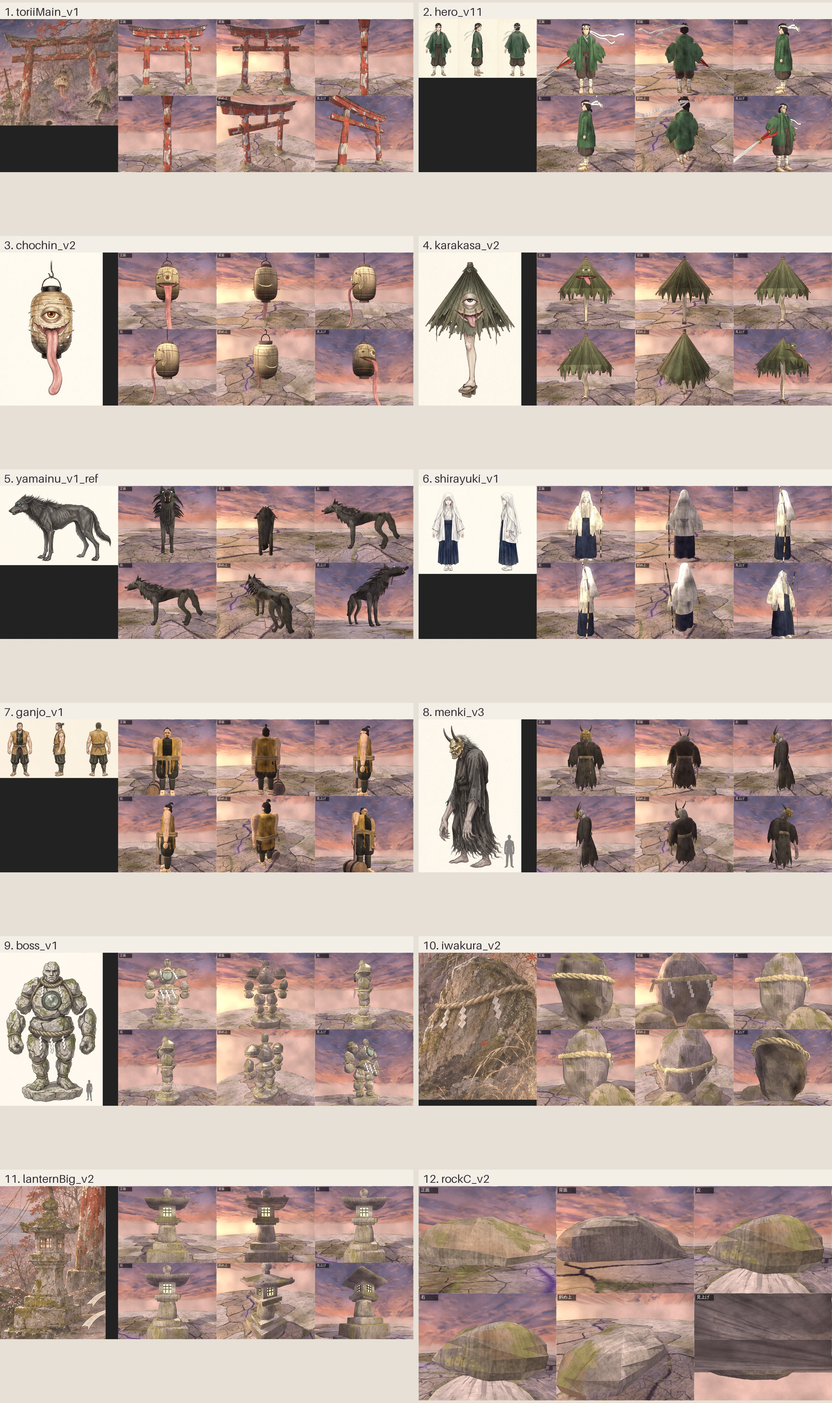
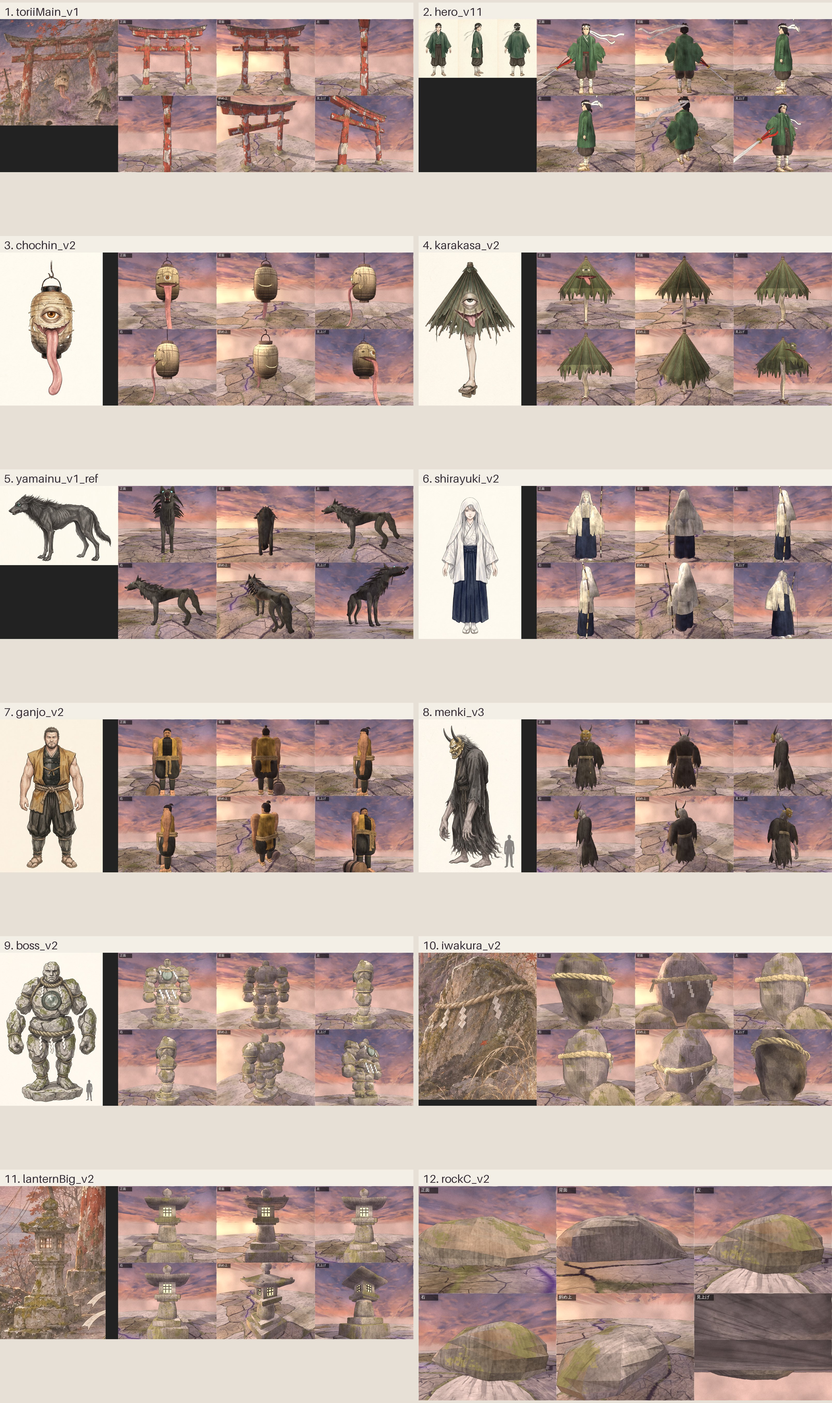
V5: 白雪2巡目（前髪を細い毛束に、被衣の縫い目と色、長い袂）。判定待ち一覧を更新
Claude-Session: https://claude.ai/code/session_0145zJV6a9DV3Wo584tYnUFi

diff --git a/src/data/lookdev/models.js b/src/data/lookdev/models.js
@@ -176,10 +176,10 @@ export const models = {
         st: [[0, 0.6, -0.01, 0.27, 0.205], [0, 0.85, -0.005, 0.25, 0.185], [0, 1.05, 0, 0.235, 0.165], [0, 1.25, 0, 0.225, 0.15], [0, 1.35, 0, 0.215, 0.14], [0, 1.41, 0, 0.17, 0.115], [0, 1.445, 0, 0.09, 0.08]] },
       // 大きな袖（肩から垂れ、袂は膝の上まで）と手
       { s: 'loft', seg: 18, n: 13, side: [0, 0, 1], col: 'kosode', col2: 'kosodeLo', gradUv: true, ao: 0.6, jitter: 0.006, jfreq: 7,
-        st: [[0.190, 1.36, 0, 0.08, 0.05], [0.255, 1.2, 0, 0.09, 0.08], [0.3, 1.02, 0.0, 0.08, 0.13], [0.325, 0.86, 0.0, 0.06, 0.16], [0.335, 0.74, 0.0, 0.045, 0.16]] },
+        st: [[0.190, 1.36, 0, 0.08, 0.05], [0.255, 1.2, 0, 0.09, 0.08], [0.3, 1.02, 0.0, 0.085, 0.14], [0.325, 0.82, 0.0, 0.07, 0.17], [0.335, 0.62, 0.0, 0.05, 0.17]] },
       { s: 'loft', seg: 8, n: 8, col: 'skinPale', st: [[0.33, 0.8, 0.03, 0.018, 0.022], [0.34, 0.73, 0.04, 0.02, 0.028], [0.345, 0.68, 0.045, 0.018, 0.03], [0.343, 0.62, 0.05, 0.008, 0.02]] },
       { s: 'loft', seg: 18, n: 13, side: [0, 0, 1], col: 'kosode', col2: 'kosodeLo', gradUv: true, ao: 0.6, jitter: 0.006, jfreq: 7,
-        st: [[-0.190, 1.36, 0, 0.08, 0.05], [-0.255, 1.2, 0, 0.09, 0.08], [-0.3, 1.02, 0.0, 0.08, 0.13], [-0.325, 0.86, 0.0, 0.06, 0.16], [-0.335, 0.74, 0.0, 0.045, 0.16]] },
+        st: [[-0.190, 1.36, 0, 0.08, 0.05], [-0.255, 1.2, 0, 0.09, 0.08], [-0.3, 1.02, 0.0, 0.085, 0.14], [-0.325, 0.82, 0.0, 0.07, 0.17], [-0.335, 0.62, 0.0, 0.05, 0.17]] },
       { s: 'loft', seg: 8, n: 8, col: 'skinPale', st: [[-0.33, 0.8, 0.03, 0.018, 0.022], [-0.34, 0.73, 0.04, 0.02, 0.028], [-0.345, 0.68, 0.045, 0.018, 0.03], [-0.343, 0.62, 0.05, 0.008, 0.02]] },
       // 首と頭（あごの細い卵形。目鼻口は顔の絵 faces.shirayuki）
       { s: 'cyl', r: [0.045, 0.04], h: 0.1, seg: 10, at: [0, 1.42, -0.005], col: 'skinPale' },
@@ -188,16 +188,17 @@ export const models = {
       { s: 'loft', seg: 8, n: 8, col: 'skinPale', st: [[0, 1.572, 0.086, 0.004, 0.003], [0, 1.552, 0.092, 0.005, 0.005], [0, 1.538, 0.096, 0.007, 0.007], [0, 1.53, 0.09, 0.008, 0.005]] },
       // 銀の髪：頭を包む髪、目にかかる前髪、顔の両脇から胸へ垂れる髪、背中の腰まで垂れる髪
       { s: 'sph', r: [0.096, 0.094, 0.104], seg: 14, at: [0, 1.65, -0.014], col: 'silverLo', col2: 'silver', ao: 0 },
-      { s: 'loft', seg: 5, n: 5, col: 'silver', ao: 0, st: [[-0.060, 1.72, 0.04, 0.02, 0.006], [-0.063, 1.68, 0.098, 0.025, 0.007], [-0.069, 1.6, 0.098, 0.005, 0.003]] },
-      { s: 'loft', seg: 5, n: 5, col: 'silver', ao: 0, st: [[-0.025, 1.72, 0.04, 0.02, 0.006], [-0.026, 1.68, 0.098, 0.025, 0.007], [-0.029, 1.6, 0.098, 0.005, 0.003]] },
-      { s: 'loft', seg: 5, n: 5, col: 'silver', ao: 0, st: [[0.015, 1.72, 0.04, 0.02, 0.006], [0.016, 1.68, 0.098, 0.025, 0.007], [0.017, 1.6, 0.098, 0.005, 0.003]] },
-      { s: 'loft', seg: 5, n: 5, col: 'silver', ao: 0, st: [[0.050, 1.72, 0.04, 0.02, 0.006], [0.053, 1.68, 0.098, 0.025, 0.007], [0.057, 1.6, 0.098, 0.005, 0.003]] },
+      // 前髪：細い毛束7本（長さを少しずつ変える）
+      ...[-0.07, -0.047, -0.023, 0, 0.023, 0.047, 0.07].map((x, i) => ({ s: 'loft', seg: 5, n: 5, col: 'silver', col2: 'silverLo', ao: 0, st: [[x, 1.72, 0.04, 0.013, 0.005], [x * 1.04, 1.68, 0.099, 0.015, 0.006], [x * 1.1, 1.61 - 0.012 * (i % 3), 0.099, 0.003, 0.002]] })),
       { s: 'loft', seg: 6, n: 10, col: 'silverLo', col2: 'silver', side: [0, 0, 1], ao: 0, st: [[0.090, 1.66, 0.03, 0.035, 0.012], [0.100, 1.5, 0.05, 0.04, 0.014], [0.105, 1.3, 0.1, 0.045, 0.014], [0.100, 1.1, 0.12, 0.04, 0.012], [0.095, 0.98, 0.12, 0.01, 0.004]] },
       { s: 'loft', seg: 6, n: 10, col: 'silverLo', col2: 'silver', side: [0, 0, 1], ao: 0, st: [[-0.090, 1.66, 0.03, 0.035, 0.012], [-0.100, 1.5, 0.05, 0.04, 0.014], [-0.105, 1.3, 0.1, 0.045, 0.014], [-0.100, 1.1, 0.12, 0.04, 0.012], [-0.095, 0.98, 0.12, 0.01, 0.004]] },
       { s: 'loft', seg: 8, n: 12, col: 'silverLo', col2: 'silver', ao: 0, st: [[0, 1.62, -0.09, 0.09, 0.045], [0, 1.45, -0.13, 0.12, 0.035], [0, 1.25, -0.165, 0.13, 0.03], [0, 1.05, -0.185, 0.12, 0.025], [0, 0.92, -0.19, 0.04, 0.01]] },
       // 被衣（頭からかぶる白い薄布。顔の前を開け、肩と背中を覆って肘のあたりまで垂れる）
       { s: 'loft', seg: 34, n: 16, arc: [302, 598], col: 'kazukiLo', col2: 'kazuki', gradUv: false, ao: 0.6, jitter: 0.005, jfreq: 5, flute: [12, 0.015, 0.5],
         st: [[0, 0.98, -0.12, 0.26, 0.24], [0, 1.15, -0.1, 0.26, 0.225], [0, 1.32, -0.07, 0.235, 0.195], [0, 1.45, -0.045, 0.19, 0.17], [0, 1.58, -0.025, 0.14, 0.145], [0, 1.7, -0.015, 0.12, 0.125], [0, 1.77, -0.012, 0.075, 0.08], [0, 1.795, -0.012, 0.02, 0.02]] },
+      // 被衣の開いた縁の縫い目（細い線）
+      { s: 'tube', r: 0.003, seg: 24, rseg: 4, col: 'silverLo', path: [[0.142, 0.98, 0.090], [0.142, 1.15, 0.097], [0.128, 1.32, 0.100], [0.104, 1.45, 0.103], [0.076, 1.58, 0.102], [0.065, 1.7, 0.094], [0.041, 1.77, 0.058]] },
+      { s: 'tube', r: 0.003, seg: 24, rseg: 4, col: 'silverLo', path: [[-0.142, 0.98, 0.090], [-0.142, 1.15, 0.097], [-0.128, 1.32, 0.100], [-0.104, 1.45, 0.103], [-0.076, 1.58, 0.102], [-0.065, 1.7, 0.094], [-0.041, 1.77, 0.058]] },
       { s: 'ref', model: 'yumi', at: [0.4, 0.92, 0.06], rot: [0, 90, 4] },
     ] }],
   },

diff --git a/src/data/lookdev/scene.js b/src/data/lookdev/scene.js
@@ -104,10 +104,10 @@ export const scene = {
     bossBronzeLo: '#3c463d',
     bossMirror: '#c9ccd0',
     bossMirrorLo: '#8fa29a',
-    kosode: '#eeeae2',
-    kosodeLo: '#c8c3bb',
-    kazuki: '#f3f1ec',
-    kazukiLo: '#d4d0c8',
+    kosode: '#e2ded5',
+    kosodeLo: '#bcb7ae',
+    kazuki: '#d8d4cc',
+    kazukiLo: '#aeaaa2',
     navy: '#36405f',
     navyLo: '#222a44',
     silver: '#d4d4d8',
